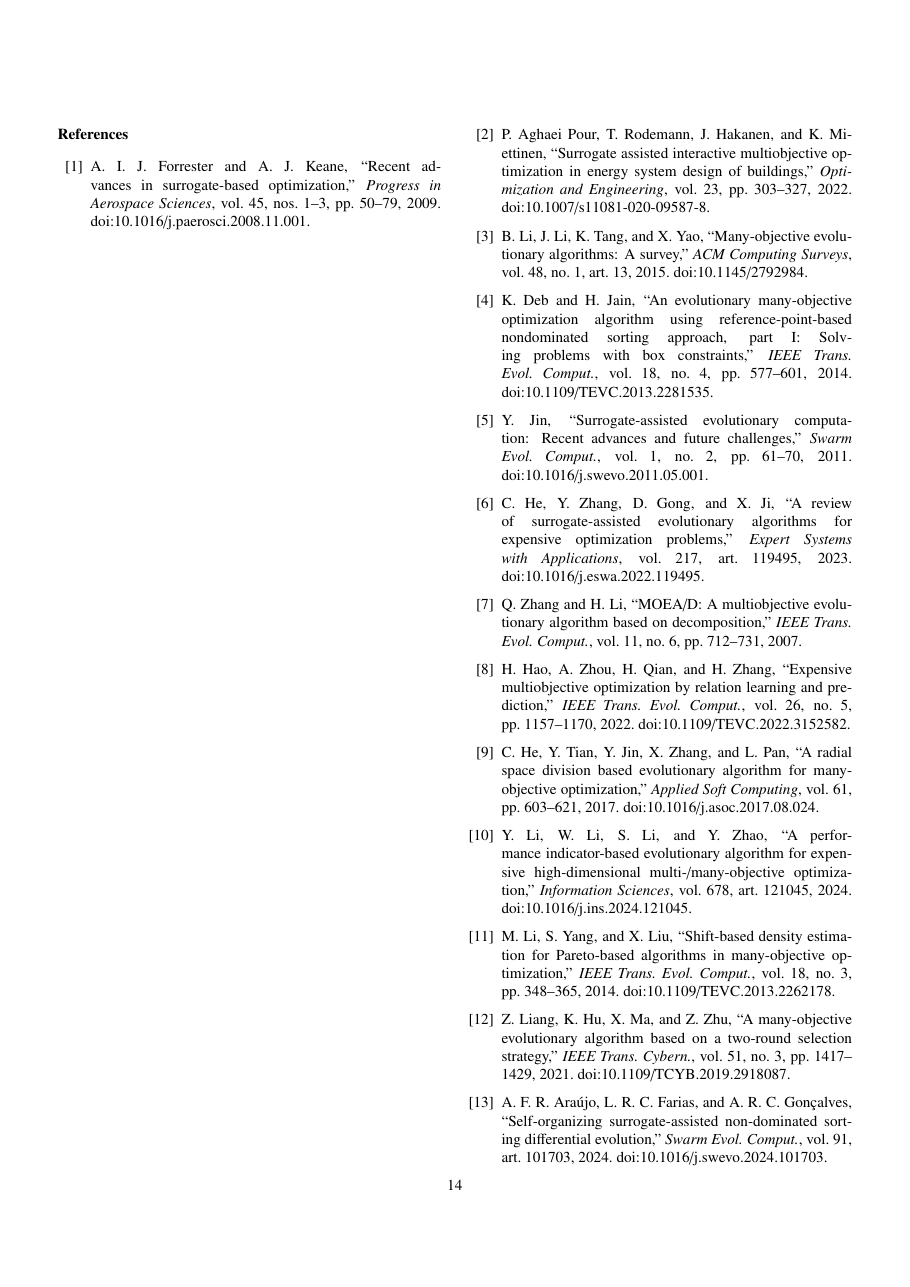
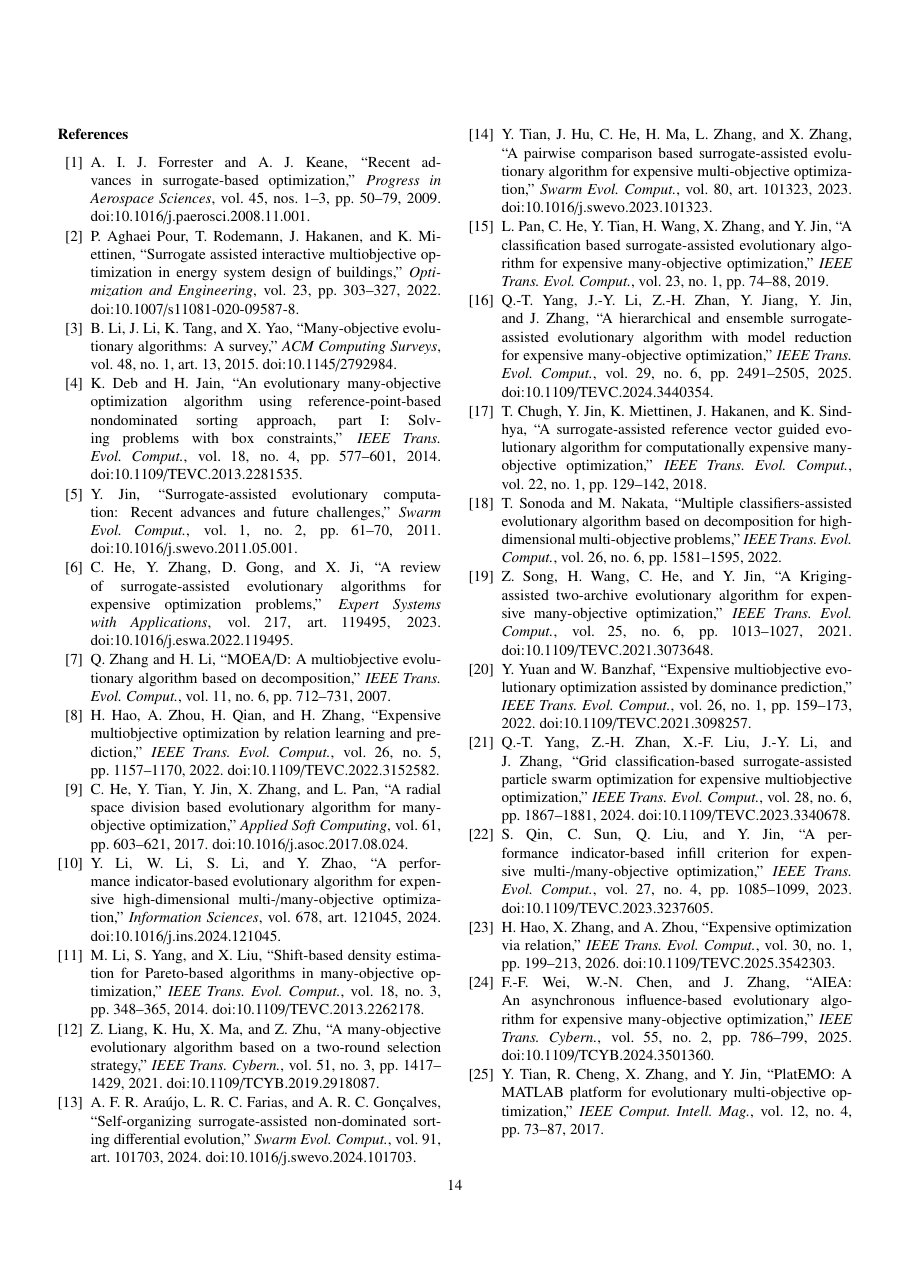
论文排版：修复参考文献页左栏只排一条的问题
- 根因：\clearpage 冲刷浮动页后，\vsize 与 \@colroom 残留为浮动页的剩余列高
  (68.5pt 而非 682pt)，导致参考文献页首栏只放得下一条，其余全部挤到右栏
- 修复：bibliography 前把 \@colroom 与 \vsize 复位到 \textheight
- \bibsep 收紧到 0.5pt，25 条文献落在同一页，总页数回到 14
- 结果：p12 表 3、p13 表 4+5、p14 参考文献双栏填满

Changed region(s): [[0.5231, 0.0932, 0.9538, 0.9013], [0.0615, 0.1243, 0.4923, 0.9013]]

diff --git a/论文写作/HPDC-MaOEA.tex b/论文写作/HPDC-MaOEA.tex
@@ -1087,6 +1087,18 @@ explore infill selection strategies that adapt to changes in the population.
 % Flushing the queued floats first keeps the references in one contiguous block
 % that starts after the last table.
 \clearpage
+% \clearpage leaves \vsize and \@colroom at the residual height of the last
+% float page (68.5pt instead of 682pt), which would cap the first column of the
+% reference page at one entry and push the rest into the second column.
+% Reset both to \textheight (= \@colht here) before the bibliography starts.
+\makeatletter
+\global\@colroom\textheight
+\global\vsize\textheight
+\makeatother
+% Tighten the inter-entry skip so that all 25 entries fit on a single page
+% (0.5pt instead of the natbib default 0.5ex); the default spills three
+% entries onto a fifteenth page.
+\setlength{\bibsep}{0.5pt}
 \begin{thebibliography}{99}
 
 \bibitem{ref:aero_sbo}
